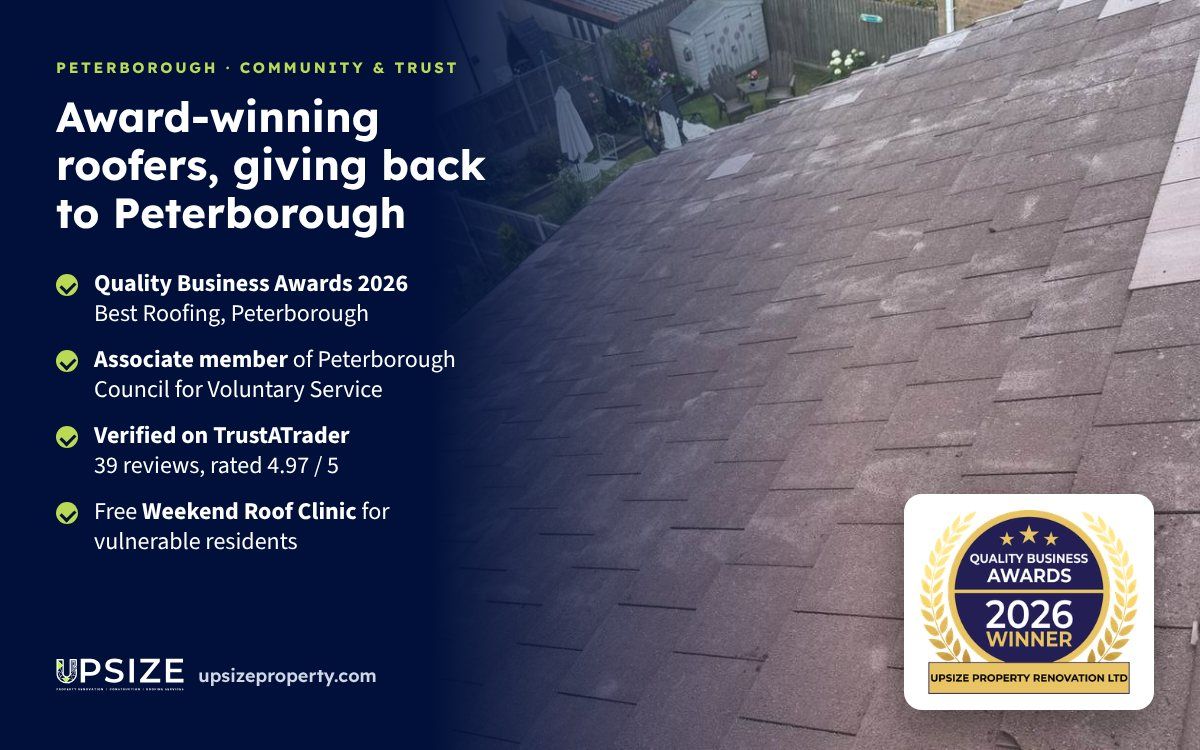
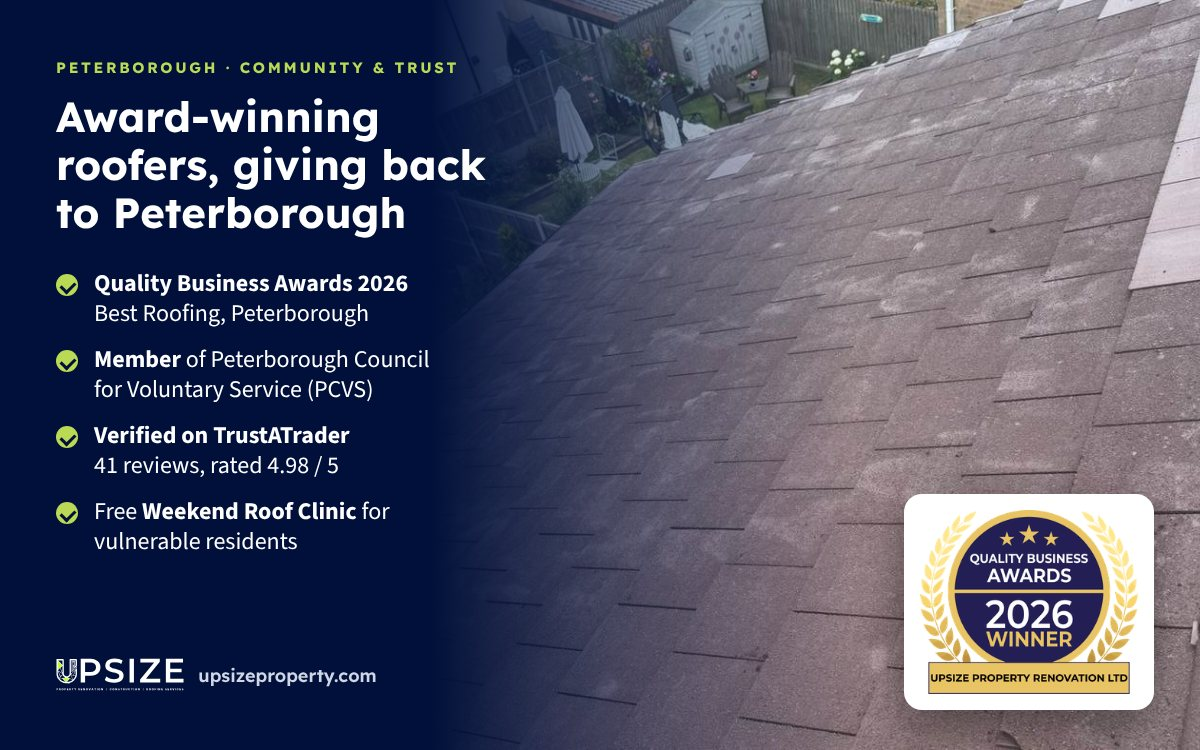
PCVS full member wording, memberOf schema restored, TrustATrader 41/4.98 in news post and image
Claude-Session: https://claude.ai/code/session_01U92tjXdnVdYQJg8HLSfBCi

Changed region(s): [[0.0617, 0.46, 0.4008, 0.552], [0.2467, 0.6133, 0.2775, 0.644], [0.0617, 0.6133, 0.0925, 0.644]]

diff --git a/src/_pages/community.html b/src/_pages/community.html
@@ -24,7 +24,7 @@
         <p class="reveal d2">The initiative offers clear property assessments alongside free immediate minor repairs where feasible, or discounted restoration work for those requiring extensive support. Inspections and minor remedial works run on weekends throughout the autumn and winter months.</p>
         <p class="reveal d2">Charities, community groups, social landlords and support workers can refer residents to the Weekend Roof Clinic by contacting us directly on 0800 193 9030 or <a href="mailto:alex@upsizeproperty.com">alex@upsizeproperty.com</a>.</p>
         <div class="pcvs-member reveal d2">
-          <p class="pcvs-tag">Associate member of <a href="https://www.pcvs.co.uk/" target="_blank" rel="noopener">Peterborough Council for Voluntary Service (PCVS)</a></p>
+          <p class="pcvs-tag">Member of <a href="https://www.pcvs.co.uk/" target="_blank" rel="noopener">Peterborough Council for Voluntary Service (PCVS)</a></p>
           <p>We joined PCVS to work properly alongside Peterborough's charities and community groups. As well as the Roof Clinic, we offer voluntary and community organisations free roof and building checks for community premises, volunteering days on community buildings, and talks for older people's groups on avoiding rogue traders. See our <a href="https://www.go-vip.co.uk/o/Upsize-Property-Renovation-Ltd/" target="_blank" rel="noopener">profile on Go-ViP</a>, the PCVS volunteering platform.</p>
           <p class="pcvs-note">The Weekend Roof Clinic is run and paid for by Upsize. PCVS does not deliver it or take referrals for it, so please contact us directly.</p>
         </div>

diff --git a/src/_pages/about-us.html b/src/_pages/about-us.html
@@ -123,7 +123,7 @@
         <div class="supply-intro">
           <span class="eyebrow">Supply chain ready</span>
           <h3>Compliance pack ready for your procurement team</h3>
-          <p>Verified <a href="https://www.trustatrader.com/traders/upsize-property-renovation-ltd-roofers-roofing-peterborough-central" target="_blank" rel="noopener">TrustATrader</a> member, rated 4.98 from 41 reviews. Associate member of <a href="https://www.pcvs.co.uk/" target="_blank" rel="noopener">Peterborough Council for Voluntary Service (PCVS)</a>; see our <a href="/community">Weekend Roof Clinic</a>. NFRC membership in progress (Q1 2027). SSIP-standard policies, £5m public liability, CSCS and DBS-checked operatives. PQQ completed.</p>
+          <p>Verified <a href="https://www.trustatrader.com/traders/upsize-property-renovation-ltd-roofers-roofing-peterborough-central" target="_blank" rel="noopener">TrustATrader</a> member, rated 4.98 from 41 reviews. Member of <a href="https://www.pcvs.co.uk/" target="_blank" rel="noopener">Peterborough Council for Voluntary Service (PCVS)</a>; see our <a href="/community">Weekend Roof Clinic</a>. NFRC membership in progress (Q1 2027). SSIP-standard policies, £5m public liability, CSCS and DBS-checked operatives. PQQ completed.</p>
           <div class="btn-row">
             <a class="btn btn--lime" href="/upsize-capability-statement.pdf" target="_blank" rel="noopener">Capability statement (PDF)</a>
             <a class="btn btn--ghost" href="#contact" data-type="Social housing – main contractor / housing provider">Request compliance pack</a>

diff --git a/src/index.html b/src/index.html
@@ -164,6 +164,7 @@
       "https://www.checkatrade.com/trades/upsizepropertyrenovationltd",
       "https://www.go-vip.co.uk/o/Upsize-Property-Renovation-Ltd/"
     ],
+    "memberOf": {"@type":"Organization","name":"Peterborough Council for Voluntary Service (PCVS)","url":"https://www.pcvs.co.uk/"},
     "hasMap": "https://maps.google.com/?cid=18389620210508951877",
     "makesOffer": [
       {"@type":"Offer","itemOffered":{"@type":"Service","name":"Social housing kitchen and bathroom replacement","url":"https://www.upsizeproperty.com/social-housing"}},

diff --git a/content/news/2026-11-06-award-pcvs-trustatrader-peterborough.md b/content/news/2026-11-06-award-pcvs-trustatrader-peterborough.md
@@ -1,16 +1,16 @@
 ---
-title: "Award-winning Peterborough roofers become associate members of PCVS"
+title: "Award-winning Peterborough roofers become members of PCVS"
 seo_title: "Award-Winning Roofers Peterborough | PCVS Member | Upsize"
-seo_description: "Upsize Property Renovation: Quality Business Awards 2026 Best Roofing Peterborough, PCVS associate member, verified on TrustATrader with 39 reviews."
+seo_description: "Upsize Property Renovation: Quality Business Awards 2026 Best Roofing Peterborough, PCVS member, verified on TrustATrader with 41 reviews."
 category: "News"
 date: 2026-11-06
 slug: award-pcvs-trustatrader-peterborough
-summary: "Upsize Property Renovation has been named Best Roofing, Peterborough in the Quality Business Awards 2026, joined Peterborough Council for Voluntary Service as an associate member, and passed 39 reviews on TrustATrader."
+summary: "Upsize Property Renovation has been named Best Roofing, Peterborough in the Quality Business Awards 2026, joined Peterborough Council for Voluntary Service as a member, and passed 41 reviews on TrustATrader."
 image: images/upsize-award-pcvs-trustatrader-peterborough.jpg
-image_alt: "Upsize Property Renovation: Quality Business Awards 2026 winner, PCVS associate member and verified on TrustATrader, shown over a roof repair in Peterborough"
+image_alt: "Upsize Property Renovation: Quality Business Awards 2026 winner, PCVS member and verified on TrustATrader, shown over a roof repair in Peterborough"
 draft: false
 ---
-Peterborough roofing contractor Upsize Property Renovation Ltd has had a busy autumn. The company has been named **Best Roofing, Peterborough** in the Quality Business Awards 2026, has joined **Peterborough Council for Voluntary Service (PCVS)** as an associate member, and now has **39 verified reviews on TrustATrader**.
+Peterborough roofing contractor Upsize Property Renovation Ltd has had a busy autumn. The company has been named **Best Roofing, Peterborough** in the Quality Business Awards 2026, has joined **Peterborough Council for Voluntary Service (PCVS)** as a member, and now has **41 verified reviews on TrustATrader**.
 
 For homeowners choosing a roofer, these are three independent ways to check who you are letting onto your roof before you pick up the phone.
 
@@ -20,9 +20,9 @@ The [Quality Business Awards](https://qualitybusinessawards.co.uk/2026/the-best-
 
 The award reflects the work our customers have reviewed: roof repairs, re-roofs, EPDM flat roofs and emergency call-outs across Peterborough and the surrounding villages.
 
-## Associate member of Peterborough Council for Voluntary Service
+## Member of Peterborough Council for Voluntary Service
 
-In November 2026 Upsize became an **associate member of [PCVS](https://www.pcvs.co.uk/)**, the support organisation for charities, community groups and voluntary organisations in Peterborough.
+In November 2026 Upsize became a **member of [PCVS](https://www.pcvs.co.uk/)**, the support organisation for charities, community groups and voluntary organisations in Peterborough.
 
 We joined to work properly alongside the local voluntary sector. Through PCVS's volunteering platform, [Go-ViP](https://www.go-vip.co.uk/o/Upsize-Property-Renovation-Ltd/), we offer voluntary and community organisations:
 
@@ -32,9 +32,9 @@ We joined to work properly alongside the local voluntary sector. Through PCVS's 
 
 PCVS supports charities and community groups. It does not deliver or take referrals for our Weekend Roof Clinic, so residents and support workers should contact us directly.
 
-## Verified on TrustATrader: 39 reviews
+## Verified on TrustATrader: 41 reviews
 
-Upsize is a verified member of [TrustATrader](https://www.trustatrader.com/traders/upsize-property-renovation-ltd-roofers-roofing-peterborough-central). Before a trader is listed, TrustATrader checks their identity, company address, customer references and insurance. Our profile currently shows **39 reviews with an average of 4.97 out of 5**.
+Upsize is a verified member of [TrustATrader](https://www.trustatrader.com/traders/upsize-property-renovation-ltd-roofers-roofing-peterborough-central). Before a trader is listed, TrustATrader checks their identity, company address, customer references and insurance. Our profile currently shows **41 reviews with an average of 4.98 out of 5**.
 
 Together with Google and Facebook, homeowners have left us more than 50 five-star reviews. You can read them before you book.
 
